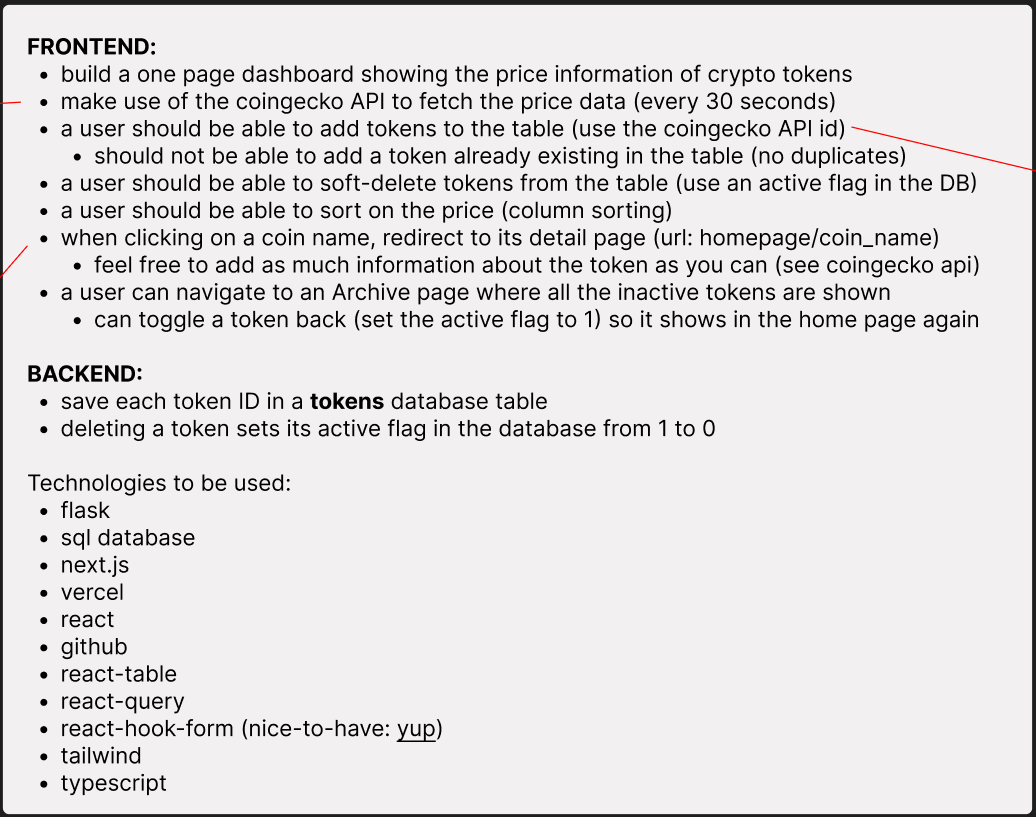
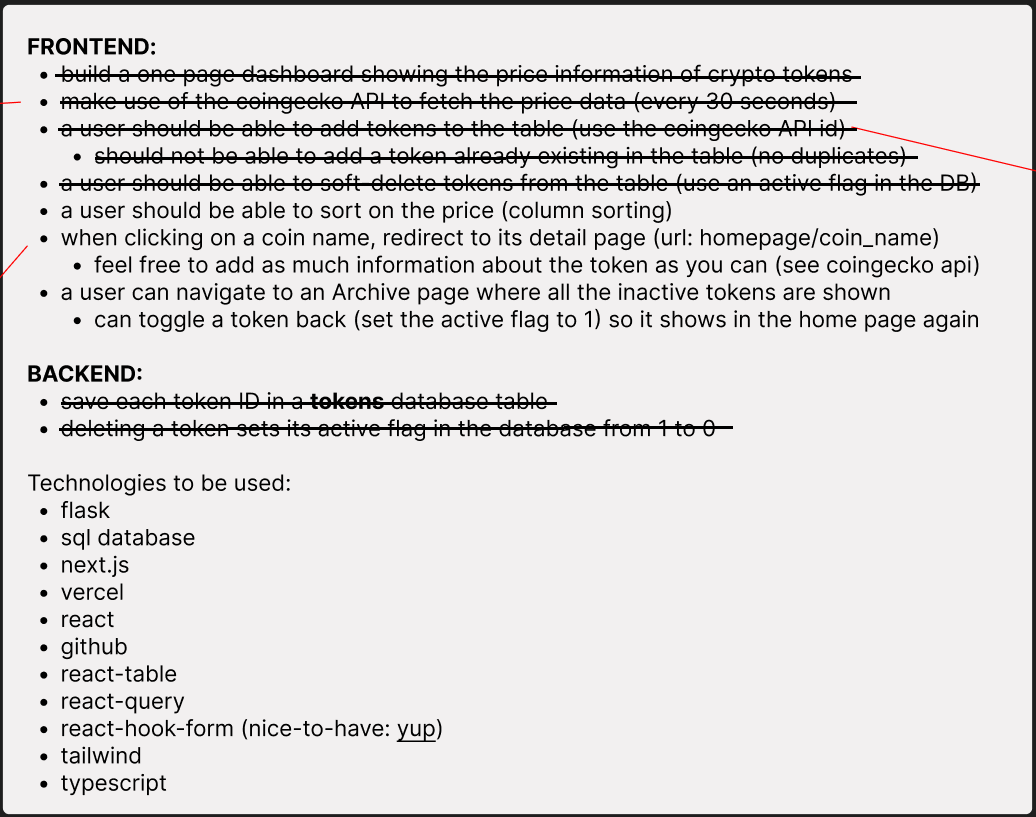
Added /archive page, more component composition

diff --git a/pages/archive.tsx b/pages/archive.tsx
@@ -1,16 +1,17 @@
-import Link from "next/link";
-
 import { useMutation, useQuery, useQueryClient } from "@tanstack/react-query";
+import readAllTokens from "@/ApiQueries/ownApi/readAllTokens";
+import Header from "@/Components/Header";
+import TokenButtonList from "@/Components/TokenButtonList";
 
 const ArchivePage: React.FC<{}> = ({}) => {
-  const queryClient = useQueryClient();
-  // const tokensQuery = useQuery({
-  //   refetchInterval: 1 * 1000,
-  //   // "queryKey" is always an array and should be unique across all queries
-  //   queryKey: ["GET /token"],
-  //   // force error with: queryFn: () => Promise.reject("The error message here")
-  //   queryFn: readAllTokens,
-  // });
+  // const queryClient = useQueryClient();
+  const tokensQuery = useQuery({
+    refetchInterval: 1 * 1000,
+    // "queryKey" is always an array and should be unique across all queries
+    queryKey: ["GET /token"],
+    // force error with: queryFn: () => Promise.reject("The error message here")
+    queryFn: readAllTokens,
+  });
 
   // const addTokenMutation = useMutation({
   //   // Supposedly we should set the Query Data (react-query's internal cache)
@@ -64,22 +65,28 @@ const ArchivePage: React.FC<{}> = ({}) => {
   //   },
   // });
 
+  const getTokens = (): string[] | undefined => {
+    if (
+      tokensQuery.isLoading ||
+      tokensQuery.isError ||
+      "error" in tokensQuery.data
+    ) {
+      return undefined;
+    }
+    return tokensQuery.data
+      .filter((token: OwnApiToken) => !token.active)
+      .map((token: OwnApiToken) => token.id);
+  };
 
-  // const getTokens = (): string[] | undefined => {
-  //   if (tokensQuery.isLoading || tokensQuery.isError || ("error" in tokensQuery.data)) {
-  //     return undefined;
-  //   }
-  //   return tokensQuery.data
-  //     .filter((token: OwnApiToken) => token.active)
-  //     .map((token: OwnApiToken) => token.id);
-  // };
-
-  // const tokens = getTokens();
-  // console.log("tokens @ homePage:", tokens);
+  const tokens = getTokens();
+  console.log("tokens @ ArchivePage:", tokens);
 
   return (
-    <main>
-      hello from /archive!
+    <main className="p-2">
+      <Header />
+      <h1 className="my-2 text-2xl">Inactive tokens</h1>
+      <p className="mb-2">Click on any token to reactivate it.</p>
+      {tokens && <TokenButtonList tokens={tokens} />}
     </main>
   );
 };

diff --git a/Components/TokenForm.tsx b/Components/TokenForm.tsx
@@ -2,6 +2,7 @@ import { FieldValues } from "react-hook-form/dist/types"; // had to add this typ
 import { useForm } from "react-hook-form";
 import { yupResolver } from "@hookform/resolvers/yup";
 import * as yup from "yup";
+import Button from "./UI/Button";
 
 const TokenForm: React.FC<{ addToken: (token: string) => void }> = ({
   addToken,
@@ -32,12 +33,12 @@ const TokenForm: React.FC<{ addToken: (token: string) => void }> = ({
   return (
     <form
       onSubmit={handleSubmit(onSubmit)}
-      className="mt-4 pt-4 pl-2 flex flex-row flex-1 items-stretch"
+      className="mt-4 pt-4 flex flex-row flex-1 items-stretch"
     >
       <div className="relative flex flex-col w-96">
         <label
           htmlFor="tokenInput"
-          className="absolute -top-3 left-3 px-2 text-md font-semibold bg-white"
+          className="absolute -top-3 left-3 px-2 text-md font-normal bg-white"
         >
           Token ID
         </label>
@@ -46,18 +47,13 @@ const TokenForm: React.FC<{ addToken: (token: string) => void }> = ({
           type="text"
           placeholder="enter token id..."
           {...register("token")}
-          className="block p-2 h-12 outline-none border border-black rounded-lg"
+          className="mr-5 block p-2 h-12 outline-none border border-black rounded-lg"
         />
 
         {/* the .toString() is added to prevent a TS error */}
         <p>{errors.token?.message?.toString()}</p>
       </div>
-      <button
-        type="submit"
-        className="ml-5 h-12 py-2 px-12 rounded-lg bg-green-600 text-white"
-      >
-        ADD
-      </button>
+      <Button type="submit">ADD</Button>
     </form>
   );
 };

diff --git a/Components/OverviewTable.tsx b/Components/OverviewTable.tsx
@@ -37,12 +37,27 @@ const OverviewTable: React.FC<{
       columnHelper.display({
         id: "actions",
         cell: (props) => (
-          <button
-            onClick={() => removeToken(props.row.getValue("id"))}
-            className="border-2 border-red-500 text-red-500 rounded-md leading-none py-1 px-2"
-          >
-            X
-          </button>
+          <div className="flex justify-center items-center -mr-2">
+            <button
+              onClick={() => removeToken(props.row.getValue("id"))}
+              className="w-6 h-6"
+            >
+              <svg
+                xmlns="http://www.w3.org/2000/svg"
+                fill="none"
+                viewBox="0 0 24 24"
+                strokeWidth={1.5}
+                stroke="currentColor"
+                className="w-6 h-6"
+              >
+                <path
+                  strokeLinecap="round"
+                  strokeLinejoin="round"
+                  d="M14.74 9l-.346 9m-4.788 0L9.26 9m9.968-3.21c.342.052.682.107 1.022.166m-1.022-.165L18.16 19.673a2.25 2.25 0 01-2.244 2.077H8.084a2.25 2.25 0 01-2.244-2.077L4.772 5.79m14.456 0a48.108 48.108 0 00-3.478-.397m-12 .562c.34-.059.68-.114 1.022-.165m0 0a48.11 48.11 0 013.478-.397m7.5 0v-.916c0-1.18-.91-2.164-2.09-2.201a51.964 51.964 0 00-3.32 0c-1.18.037-2.09 1.022-2.09 2.201v.916m7.5 0a48.667 48.667 0 00-7.5 0"
+                />
+              </svg>
+            </button>
+          </div>
         ),
       }),
       // Accessor Columns

diff --git a/pages/index.tsx b/pages/index.tsx
@@ -6,6 +6,7 @@ import TokenForm from "@/Components/TokenForm";
 import readAllTokens from "@/ApiQueries/ownApi/readAllTokens";
 import updateToken from "@/ApiQueries/ownApi/updateToken";
 import createToken from "@/ApiQueries/ownApi/createToken";
+import Header from "@/Components/Header";
 
 const HomePage: React.FC<{}> = ({}) => {
   const queryClient = useQueryClient();
@@ -105,17 +106,11 @@ const HomePage: React.FC<{}> = ({}) => {
   console.log("tokens @ homePage:", tokens);
 
   return (
-    <main>
-      <header>
-        <nav>
-          <Link href="/archive">Archive</Link>
-        </nav>
-      </header>
-      <hr className="mb-4" />
-
+    <main className="p-2">
+      <Header />
       <TokenForm addToken={(token: string) => addTokenMutation.mutate(token)} />
 
-      <div className="p-2 mt-4">
+      <div className="mt-4">
         {tokensQuery.isLoading && <p>retrieving saved tokens...</p>}
         {tokensQuery.isError && (
           <p>{`An error occured retrieving saved tokens: ${JSON.stringify(

diff --git a/Components/TokenButtonList.tsx b/Components/TokenButtonList.tsx
@@ -1,0 +1,24 @@
+import Button from "@/Components/UI/Button";
+import updateToken from "@/ApiQueries/ownApi/updateToken";
+
+const TokenButtonList: React.FC<{ tokens: string[] }> = ({ tokens }) => {
+  const buttonClickHandler = (token: string) => {
+    // this should be replaced with a custom mutation
+    updateToken({ id: token, active: true });
+  };
+
+  if (!tokens) return null;
+  if (tokens.length === 0)
+    return <p className="text-sm">No inactive tokens found...</p>;
+  return (
+    <ul className="">
+      {tokens.map((token) => (
+        <li key={token} className="mb-1">
+          <Button onClick={() => buttonClickHandler(token)}>{token}</Button>
+        </li>
+      ))}
+    </ul>
+  );
+};
+
+export default TokenButtonList;

diff --git a/Components/Header.tsx b/Components/Header.tsx
@@ -1,0 +1,19 @@
+import Link from "next/link";
+
+const Header: React.FC<{}> = ({}) => {
+  return (
+    <>
+      <header>
+        <nav>
+          <ul className="h-16 flex flex-row justify-start items-center text-xl">
+            <li className="mr-4"><Link href="/">Home</Link></li>
+            <li className="mr-4"><Link href="/archive">Archive</Link></li>
+          </ul>
+        </nav>
+      </header>
+      <hr className="mb-4" />
+    </>
+  );
+};
+
+export default Header;

diff --git a/Components/UI/Button.tsx b/Components/UI/Button.tsx
@@ -1,0 +1,15 @@
+import React, { ReactNode } from 'react';
+
+interface ButtonProps extends React.ButtonHTMLAttributes<HTMLButtonElement> {
+  children: ReactNode;
+}
+
+const Button: React.FC<ButtonProps> = ({ children, ...restProps }) => {
+  return (
+    <button className="h-12 py-2 px-12 rounded-lg bg-green-600 text-white capitalize" {...restProps}>
+      {children}
+    </button>
+  );
+}
+
+export default Button;

diff --git a/README.md b/README.md
@@ -66,7 +66,8 @@ Open [http://localhost:3000](http://localhost:3000) with your browser to see the
 
 
 ## Todo
-- fix react-query issue: new coins do not show up until manual refresh, or showing wrong data
+- fix react-query issue: new coins do not show up until manual refresh
+- fix form input error msg CSS
 - provide CryptoGecko attribution ("powered by CryptoGecko")
 - add garbage icon in frontend
 - test what happens if CoinGecko APi gets request for non existent token => unknown tokens are silently ignored
